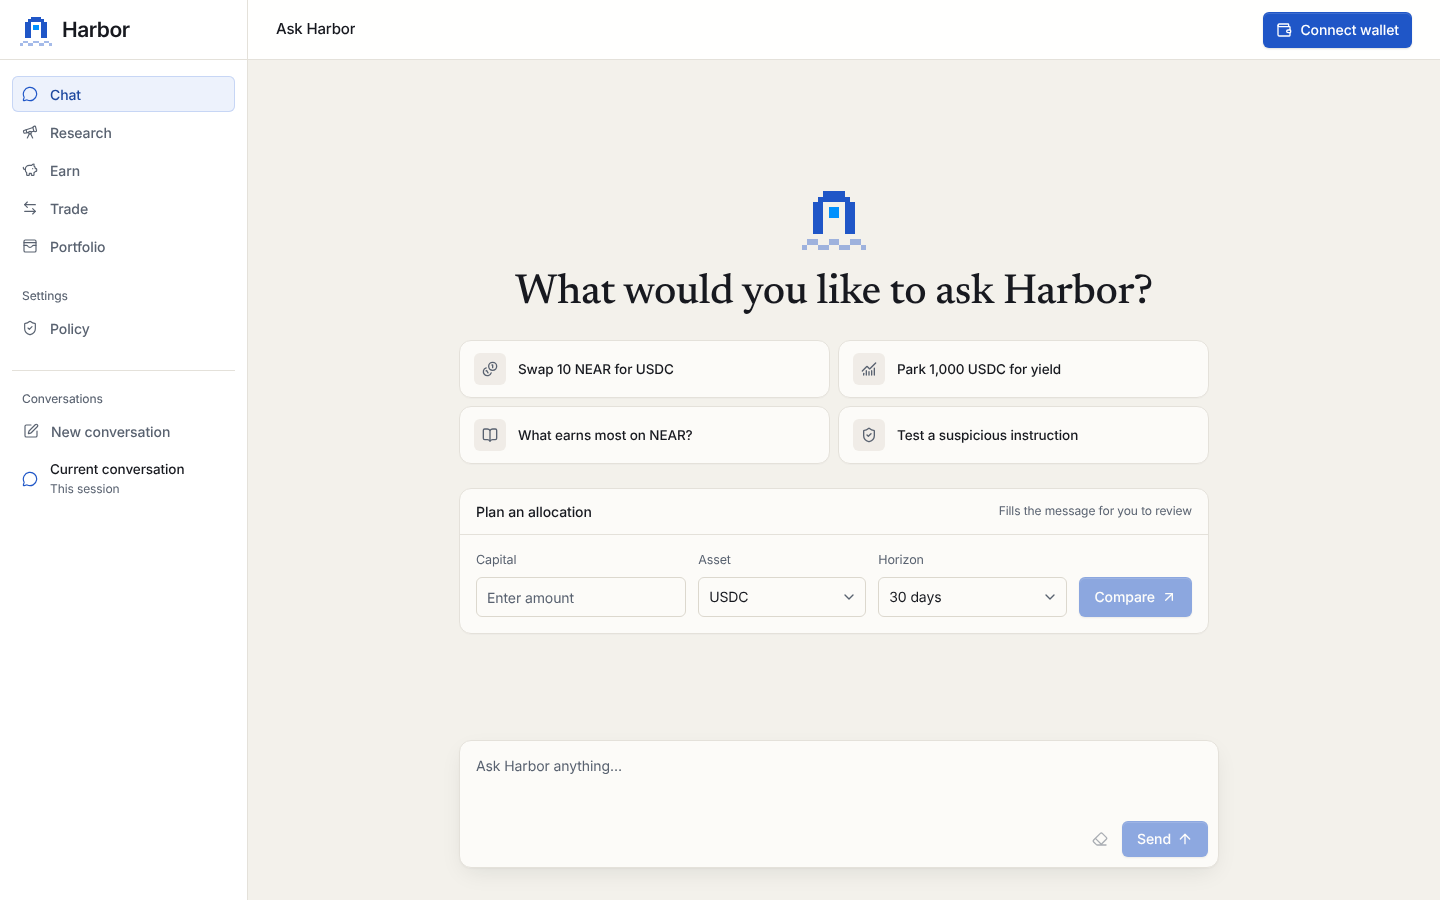
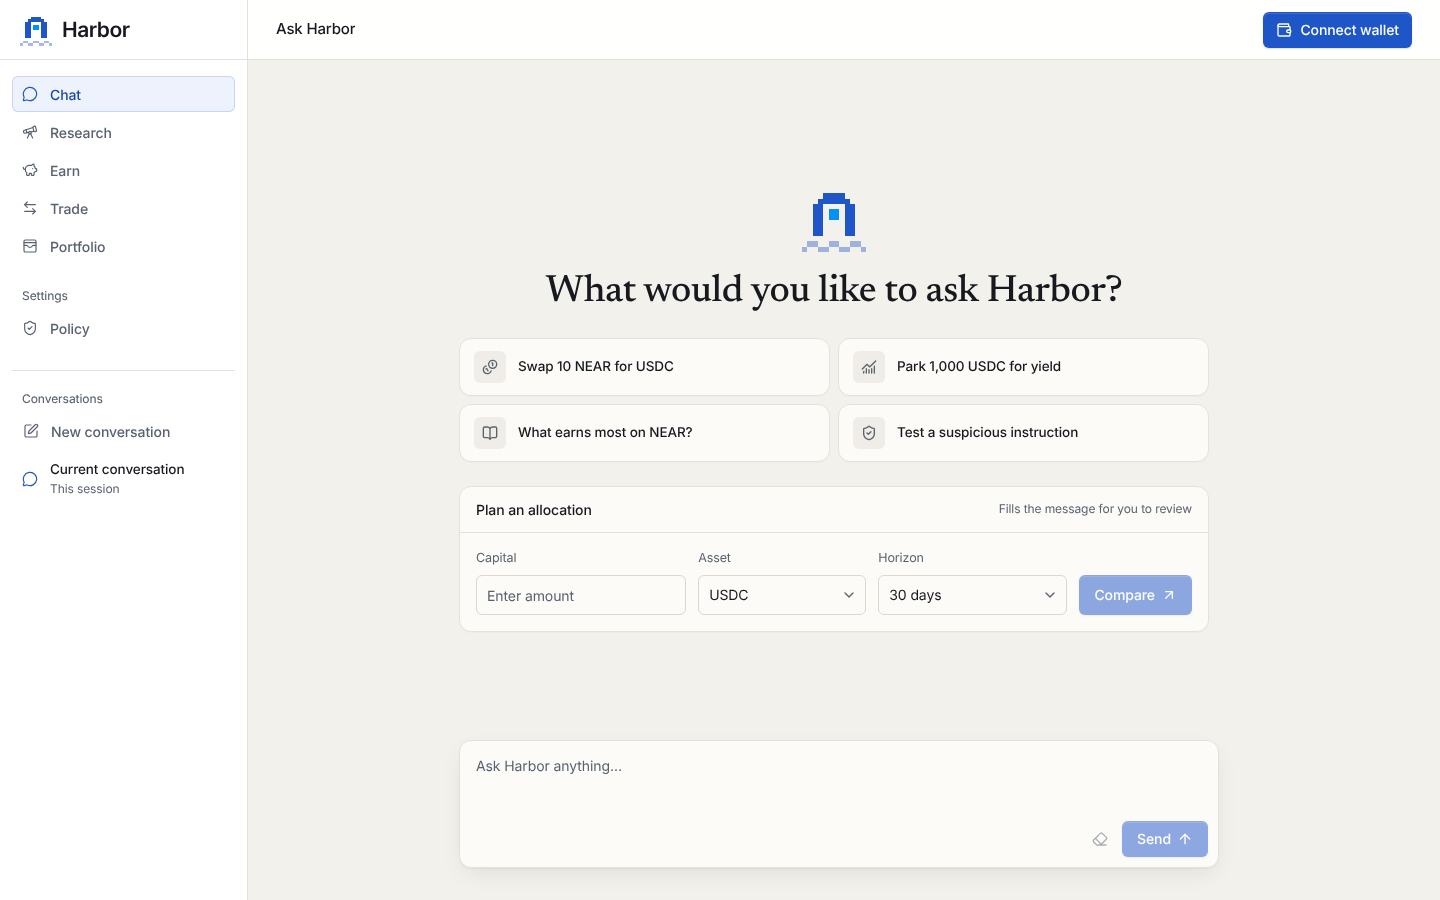
Size the chat welcome heading to fit one line in the chat column
Claude-Session: https://claude.ai/code/session_01Cf2kwr1Yyn7CEEEJfkYx7q

diff --git a/apps/web/src/components/conversation-draft.tsx b/apps/web/src/components/conversation-draft.tsx
@@ -243,7 +243,7 @@ export function ConversationDraft({
                   <HarborMark className={`${compact ? 'size-10' : 'size-16'} text-primary`} />
                 </div>
                 <h2
-                  className={`font-display ${compact ? 'text-[24px]' : 'text-[clamp(32px,4vw,42px)]'} leading-[1.1] tracking-[-0.01em]`}
+                  className={`font-display ${compact ? 'text-[24px]' : 'text-[clamp(30px,3.4vw,38px)]'} leading-[1.1] tracking-[-0.01em]`}
                 >
                   {purpose === 'strategy' ? 'What’s your thesis?' : 'What would you like to ask Harbor?'}
                 </h2>
